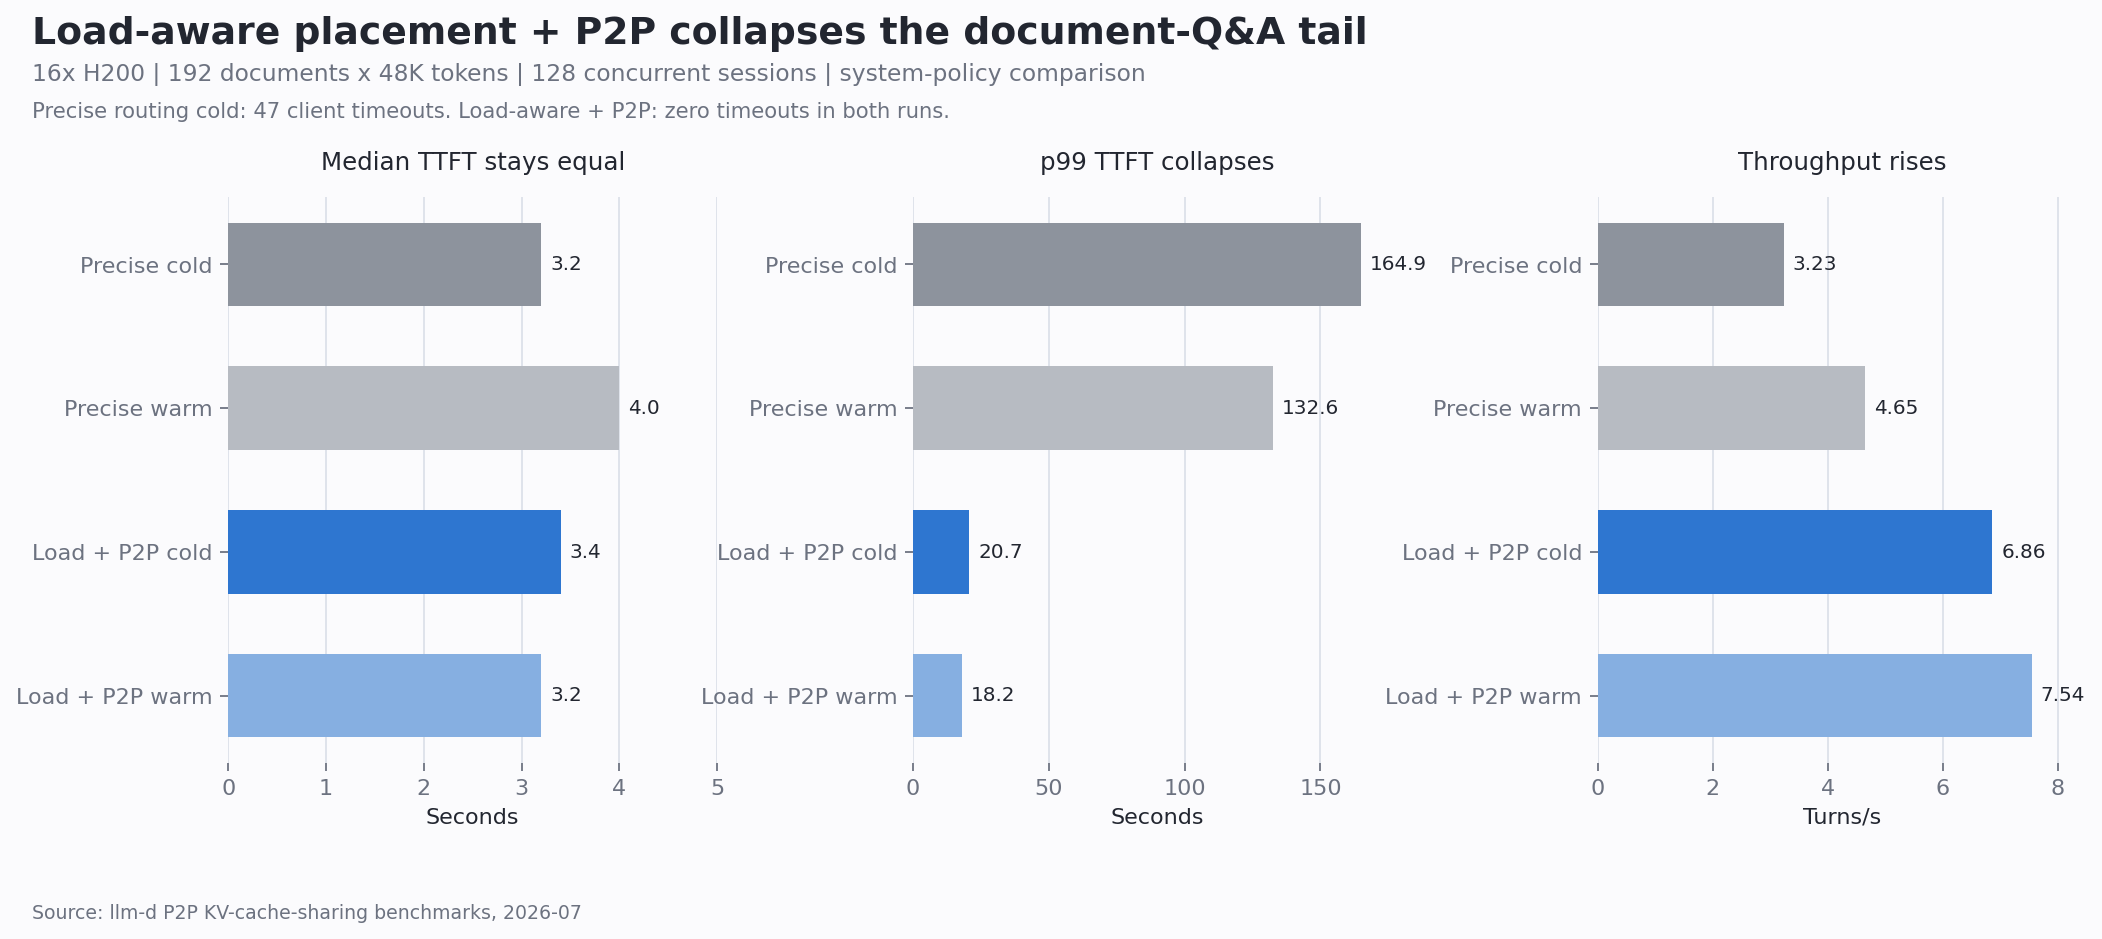
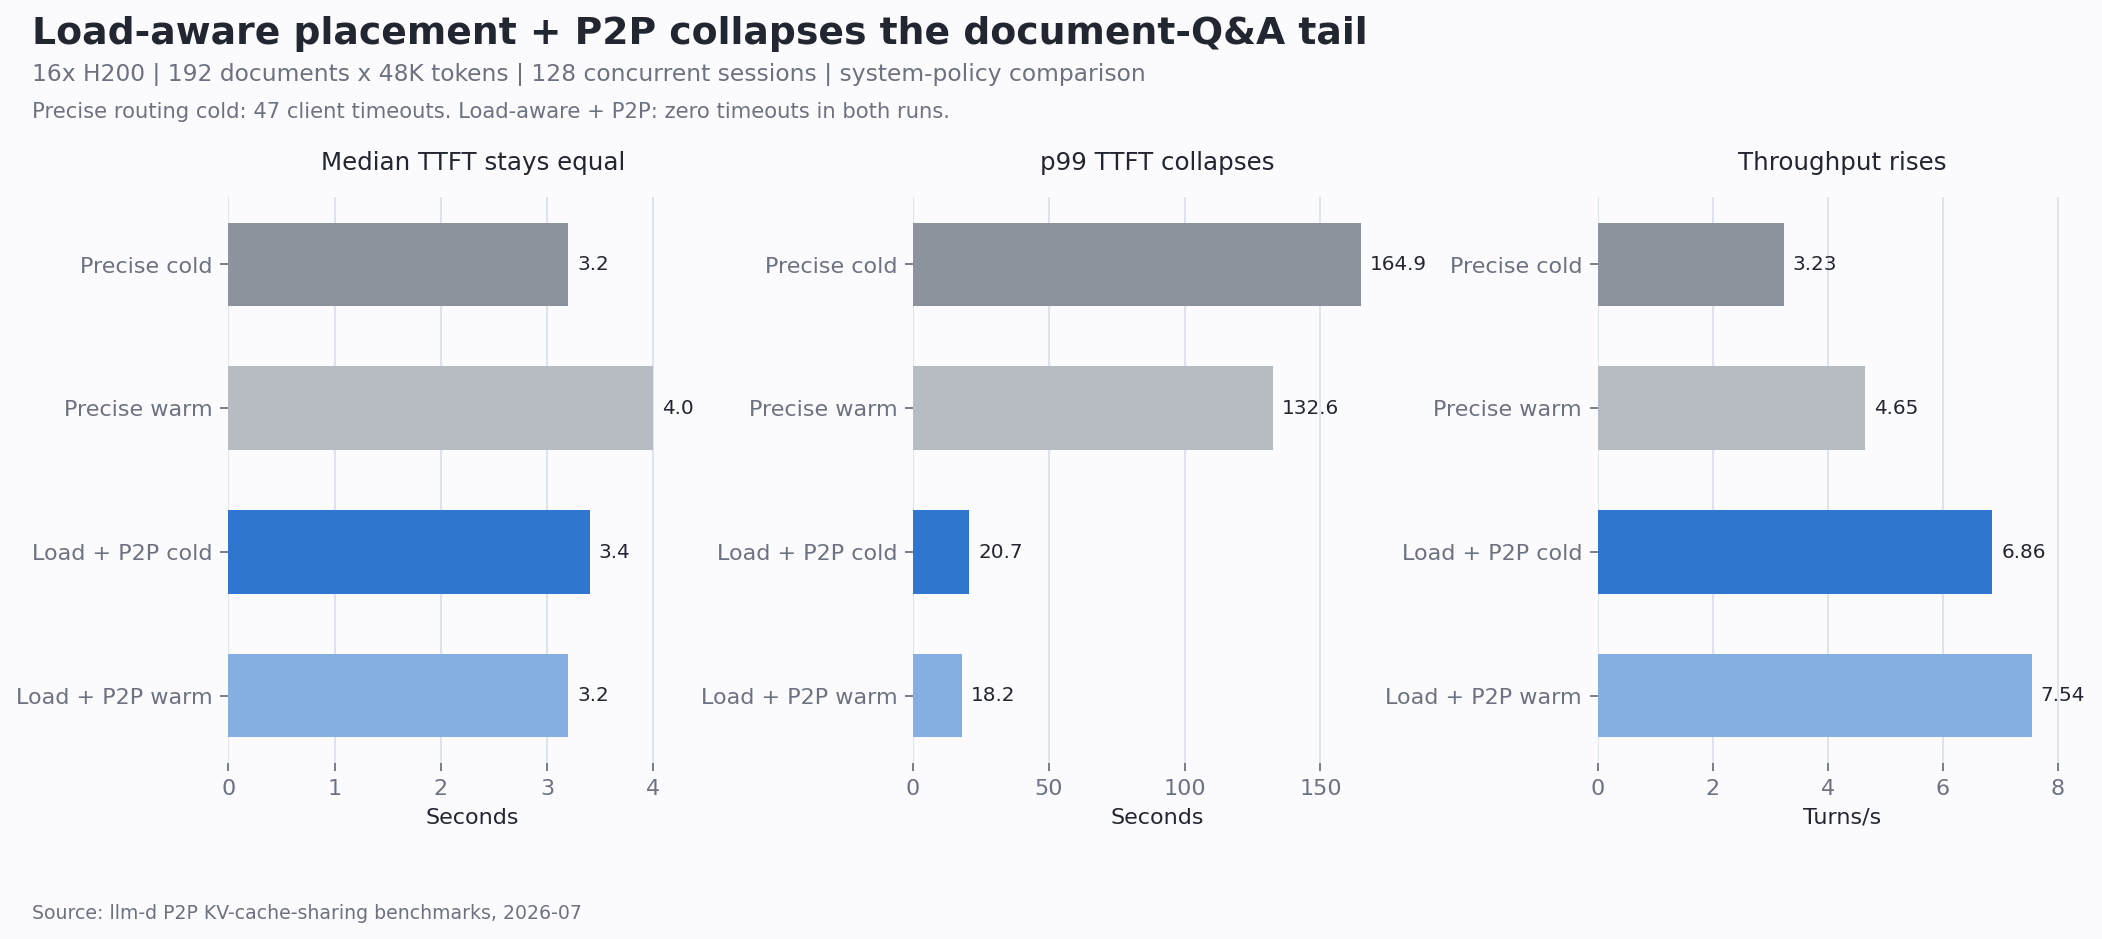
blog(p2p): figure polish - table-consistent rounding and label formats
Crossover value labels round half up so 56.5 renders as 57 ms, matching
the post's table; the wide-EP p90 label carries its decimal; the doc-QA
median panel no longer places a tick on the panel seam.

diff --git a/scripts/generate-p2p-blog-charts.py b/scripts/generate-p2p-blog-charts.py
@@ -1,10 +1,16 @@
 #!/usr/bin/env python3
 """Generate the benchmark charts used by the P2P KV-cache-sharing blog."""
 
+import math
 from pathlib import Path
 
 import matplotlib.pyplot as plt
 import numpy as np
+
+
+def fmt_ms(v):
+    # round half up so 56.5 -> 57, matching the post's tables
+    return f"{math.floor(v + 0.5):,} ms"
 
 
 OUT = Path(__file__).resolve().parents[1] / "static/img/blogs/p2p-kv-cache"
@@ -72,7 +78,7 @@ def crossover():
 
     for x, y in zip(tokens, recompute):
         ax.annotate(
-            f"{y:,.0f} ms",
+            fmt_ms(y),
             (x, y),
             xytext=(0, 10),
             textcoords="offset points",
@@ -82,7 +88,7 @@ def crossover():
         )
     for x, y in zip(tokens, pull):
         ax.annotate(
-            f"{y:,.0f} ms",
+            fmt_ms(y),
             (x, y),
             xytext=(0, -17),
             textcoords="offset points",
@@ -145,7 +151,7 @@ def docqa():
     style_figure(fig)
 
     metrics = [
-        ("Median TTFT stays equal", "Seconds", p50, 5.0, "%.1f"),
+        ("Median TTFT stays equal", "Seconds", p50, 4.6, "%.1f"),
         ("p99 TTFT collapses", "Seconds", p99, 180.0, "%.1f"),
         ("Throughput rises", "Turns/s", throughput, 8.5, "%.2f"),
     ]
@@ -195,15 +201,15 @@ def docqa():
 
 def wide_ep():
     metrics = [
-        ("Mean TTFT", "Seconds", 7.85, 2.56, "-67%", 8.7),
-        ("p90 TTFT", "Seconds", 21.3, 5.0, "-77%", 23.5),
-        ("Throughput", "Requests/s", 3.8, 10.1, "2.7x", 11.2),
+        ("Mean TTFT", "Seconds", 7.85, 2.56, "-67%", 8.7, "%.2f"),
+        ("p90 TTFT", "Seconds", 21.3, 5.0, "-77%", 23.5, "%.1f"),
+        ("Throughput", "Requests/s", 3.8, 10.1, "2.7x", 11.2, "%.1f"),
     ]
 
     fig, axes = plt.subplots(1, 3, figsize=(12.6, 4.9))
     style_figure(fig)
 
-    for ax, (title, unit, baseline, p2p, delta, xmax) in zip(axes, metrics):
+    for ax, (title, unit, baseline, p2p, delta, xmax, vfmt) in zip(axes, metrics):
         bars = ax.barh(
             [1, 0],
             [baseline, p2p],
@@ -218,7 +224,7 @@ def wide_ep():
         ax.set_axisbelow(True)
         ax.bar_label(
             bars,
-            labels=[f"{baseline:g}", f"{p2p:g}"],
+            labels=[vfmt % baseline, vfmt % p2p],
             padding=5,
             color=FG,
             fontsize=10,
